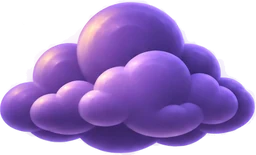
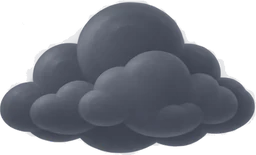
Hayalet Avcıları: fırtına bulutları gri-kara (K03'ün mor bulutları griye boyandı)
Kullanıcı: "önceki gibi gri kara renkli olsun, böyle çok renkli değil".
gorsel_kes.py K03 bulutlarını parlaklığına göre kara arduvaz griye boyar;
bulut-4'ün çizili damlaları silinir (yağmur kodla canlı çizilecek, YAG1).

Claude-Session: https://claude.ai/code/session_01JEr5mLKiYLf7SjTYh6sMfB

diff --git a/hayalet-avcilari/www/gorsel/liste.js b/hayalet-avcilari/www/gorsel/liste.js
@@ -1,6 +1,6 @@
 // Üretilen dosya: araclar/gorsel_kes.py. Elle düzenleme.
 // ChatGPT paftalarından kesilen görseller: anahtar → [genişlik, yükseklik] (px)
-const GORSEL_LISTESI = { "an-atici-saldiri-1": [ 192, 145 ], "an-atici-saldiri-2": [ 192, 145 ], "an-atici-saldiri-3": [ 192, 145 ], "an-atici-saldiri-4": [ 192, 145 ], "an-atici-saldiri-5": [ 192, 145 ], "an-atici-saldiri-6": [ 192, 145 ], "an-boss-bekle-1": [ 179, 256 ], "an-boss-bekle-2": [ 179, 256 ], "an-boss-bekle-3": [ 179, 256 ], "an-boss-kukre-1": [ 256, 231 ], "an-boss-kukre-2": [ 256, 231 ], "an-boss-kukre-3": [ 256, 231 ], "an-boss-yenilgi-1": [ 217, 256 ], "an-boss-yenilgi-2": [ 217, 256 ], "an-boss-yenilgi-3": [ 217, 256 ], "an-boss-yenilgi-4": [ 217, 256 ], "an-boss-yenilgi-5": [ 217, 256 ], "an-boss-yenilgi-6": [ 217, 256 ], "an-buz-1": [ 254, 256 ], "an-buz-2": [ 254, 256 ], "an-buz-3": [ 254, 256 ], "an-carpilma-1": [ 192, 171 ], "an-carpilma-2": [ 192, 171 ], "an-carpilma-3": [ 192, 171 ], "an-carpilma-4": [ 192, 171 ], "an-carpilma-5": [ 192, 171 ], "an-carpilma-6": [ 192, 171 ], "an-elmas-1": [ 79, 96 ], "an-elmas-2": [ 79, 96 ], "an-elmas-3": [ 79, 96 ], "an-hayalet-puf-1": [ 143, 192 ], "an-hayalet-puf-2": [ 143, 192 ], "an-hayalet-puf-3": [ 143, 192 ], "an-hayalet-puf-4": [ 143, 192 ], "an-hayalet-puf-5": [ 143, 192 ], "an-hayalet-puf-6": [ 143, 192 ], "an-hayalet-suzul-1": [ 131, 160 ], "an-hayalet-suzul-2": [ 131, 160 ], "an-hayalet-suzul-3": [ 131, 160 ], "an-hayalet-suzul-4": [ 131, 160 ], "an-hayalet-suzul-5": [ 131, 160 ], "an-hayalet-suzul-6": [ 131, 160 ], "an-kalp-topla-1": [ 160, 141 ], "an-kalp-topla-2": [ 160, 141 ], "an-kalp-topla-3": [ 160, 141 ], "an-kasirga-1": [ 192, 178 ], "an-kasirga-2": [ 192, 178 ], "an-kasirga-3": [ 192, 178 ], "an-kedi-1": [ 160, 121 ], "an-kedi-2": [ 160, 121 ], "an-kedi-3": [ 160, 121 ], "an-kopek-1": [ 160, 113 ], "an-kopek-2": [ 160, 113 ], "an-kopek-3": [ 160, 113 ], "an-kus-1": [ 128, 97 ], "an-kus-2": [ 128, 97 ], "an-kus-3": [ 128, 97 ], "an-para-1": [ 92, 96 ], "an-para-2": [ 92, 96 ], "an-para-3": [ 92, 96 ], "an-para-4": [ 92, 96 ], "an-para-5": [ 92, 96 ], "an-para-6": [ 92, 96 ], "an-patlama-1": [ 256, 238 ], "an-patlama-2": [ 256, 238 ], "an-patlama-3": [ 256, 238 ], "an-timsah-1": [ 192, 127 ], "an-timsah-2": [ 192, 127 ], "an-timsah-3": [ 192, 127 ], "an-timsah-4": [ 192, 127 ], "an-timsah-5": [ 192, 127 ], "an-timsah-6": [ 192, 127 ], "an-vurus-1": [ 128, 126 ], "an-vurus-2": [ 128, 126 ], "an-vurus-3": [ 128, 126 ], "an-yarasa-1": [ 128, 66 ], "an-yarasa-2": [ 128, 66 ], "an-yarasa-3": [ 128, 66 ], "an-yildiz-topla-1": [ 160, 138 ], "an-yildiz-topla-2": [ 160, 138 ], "an-yildiz-topla-3": [ 160, 138 ], "an-zumrut-1": [ 76, 96 ], "an-zumrut-2": [ 76, 96 ], "an-zumrut-3": [ 76, 96 ], "boss-AF": [ 214, 256 ], "boss-AO": [ 203, 256 ], "boss-AR": [ 207, 256 ], "boss-BD": [ 193, 256 ], "boss-BR": [ 238, 256 ], "boss-CA": [ 218, 256 ], "boss-CD": [ 205, 256 ], "boss-CI": [ 213, 256 ], "boss-CN": [ 250, 256 ], "boss-CO": [ 234, 256 ], "boss-DE": [ 209, 256 ], "boss-DZ": [ 256, 251 ], "boss-EG": [ 188, 256 ], "boss-ES": [ 235, 256 ], "boss-ET": [ 231, 256 ], "boss-FR": [ 237, 256 ], "boss-GB": [ 227, 256 ], "boss-GH": [ 242, 256 ], "boss-ID": [ 181, 256 ], "boss-IN": [ 196, 256 ], "boss-IQ": [ 212, 256 ], "boss-IR": [ 199, 256 ], "boss-IT": [ 238, 256 ], "boss-JP": [ 240, 256 ], "boss-KE": [ 213, 256 ], "boss-KR": [ 181, 256 ], "boss-MA": [ 231, 256 ], "boss-MG": [ 204, 256 ], "boss-MM": [ 192, 256 ], "boss-MX": [ 244, 256 ], "boss-MY": [ 175, 256 ], "boss-MZ": [ 215, 256 ], "boss-NG": [ 203, 256 ], "boss-PE": [ 194, 256 ], "boss-PH": [ 195, 256 ], "boss-PK": [ 213, 256 ], "boss-PL": [ 214, 256 ], "boss-PS": [ 218, 256 ], "boss-RU": [ 170, 256 ], "boss-SA": [ 191, 256 ], "boss-SD": [ 200, 256 ], "boss-TH": [ 196, 256 ], "boss-TR": [ 232, 256 ], "boss-TZ": [ 201, 256 ], "boss-UA": [ 243, 256 ], "boss-UG": [ 223, 256 ], "boss-US": [ 220, 256 ], "boss-UZ": [ 193, 256 ], "boss-VN": [ 183, 256 ], "boss-YE": [ 202, 256 ], "boss-ZA": [ 195, 256 ], "bulut": [ 256, 160 ], "bulut-2": [ 256, 155 ], "bulut-3": [ 256, 250 ], "bulut-4": [ 256, 197 ], "cali": [ 192, 167 ], "dere-sus-1": [ 154, 160 ], "dere-sus-2": [ 160, 123 ], "dere-sus-3": [ 160, 120 ], "dere-sus-4": [ 160, 129 ], "dere-sus-5": [ 160, 108 ], "dere-sus-6": [ 160, 137 ], "elmas": [ 79, 96 ], "esya-bomba": [ 108, 128 ], "esya-dondurma": [ 122, 128 ], "esya-gorunmez": [ 95, 128 ], "esya-ilkyrd": [ 127, 128 ], "esya-kasirga": [ 117, 128 ], "esya-roket": [ 126, 128 ], "esya-simsek": [ 98, 128 ], "gel-atis": [ 128, 114 ], "gel-can": [ 128, 115 ], "gel-hasar": [ 128, 108 ], "gel-hiz": [ 128, 122 ], "gel-menzil": [ 128, 114 ], "gel-miknatis": [ 128, 114 ], "guc": [ 128, 128 ], "guc-beti": [ 160, 158 ], "guc-fanatik": [ 160, 158 ], "guc-gul": [ 160, 158 ], "guc-kent": [ 159, 160 ], "guc-kinkin": [ 158, 160 ], "guc-kornet": [ 158, 160 ], "guc-mark": [ 158, 160 ], "guc-ponko": [ 158, 160 ], "guc-rani": [ 160, 159 ], "guc-sercin": [ 160, 158 ], "guc-silsen": [ 160, 159 ], "guc-veryi": [ 158, 160 ], "hayalet-atici": [ 128, 160 ], "hayalet-boss": [ 178, 256 ], "hayalet-mini": [ 134, 160 ], "hayalet-normal": [ 129, 160 ], "k3-beti-0-1": [ 177, 256 ], "k3-beti-0-2": [ 177, 256 ], "k3-beti-0-3": [ 177, 256 ], "k3-beti-0-4": [ 177, 256 ], "k3-beti-0-5": [ 177, 256 ], "k3-beti-0-6": [ 177, 256 ], "k3-beti-0-7": [ 177, 256 ], "k3-beti-0-8": [ 177, 256 ], "k3-beti-1-1": [ 169, 256 ], "k3-beti-1-2": [ 169, 256 ], "k3-beti-1-3": [ 169, 256 ], "k3-beti-1-4": [ 169, 256 ], "k3-beti-1-5": [ 169, 256 ], "k3-beti-1-6": [ 169, 256 ], "k3-beti-1-7": [ 169, 256 ], "k3-beti-1-8": [ 169, 256 ], "k3-beti-2-1": [ 176, 256 ], "k3-beti-2-2": [ 176, 256 ], "k3-beti-2-3": [ 176, 256 ], "k3-beti-2-4": [ 176, 256 ], "k3-beti-2-5": [ 176, 256 ], "k3-beti-2-6": [ 176, 256 ], "k3-beti-2-7": [ 176, 256 ], "k3-beti-2-8": [ 176, 256 ], "k3-fanatik-0-1": [ 175, 256 ], "k3-fanatik-0-2": [ 175, 256 ], "k3-fanatik-0-3": [ 175, 256 ], "k3-fanatik-0-4": [ 175, 256 ], "k3-fanatik-0-5": [ 175, 256 ], "k3-fanatik-0-6": [ 175, 256 ], "k3-fanatik-0-7": [ 175, 256 ], "k3-fanatik-0-8": [ 175, 256 ], "k3-fanatik-1-1": [ 178, 256 ], "k3-fanatik-1-2": [ 178, 256 ], "k3-fanatik-1-3": [ 178, 256 ], "k3-fanatik-1-4": [ 178, 256 ], "k3-fanatik-1-5": [ 178, 256 ], "k3-fanatik-1-6": [ 178, 256 ], "k3-fanatik-1-7": [ 178, 256 ], "k3-fanatik-1-8": [ 178, 256 ], "k3-fanatik-2-1": [ 183, 256 ], "k3-fanatik-2-2": [ 183, 256 ], "k3-fanatik-2-3": [ 183, 256 ], "k3-fanatik-2-4": [ 183, 256 ], "k3-fanatik-2-5": [ 183, 256 ], "k3-fanatik-2-6": [ 183, 256 ], "k3-fanatik-2-7": [ 183, 256 ], "k3-fanatik-2-8": [ 183, 256 ], "k3-gul-0-1": [ 167, 256 ], "k3-gul-0-2": [ 167, 256 ], "k3-gul-0-3": [ 167, 256 ], "k3-gul-0-4": [ 167, 256 ], "k3-gul-0-5": [ 167, 256 ], "k3-gul-0-6": [ 167, 256 ], "k3-gul-0-7": [ 167, 256 ], "k3-gul-0-8": [ 167, 256 ], "k3-gul-1-1": [ 171, 256 ], "k3-gul-1-2": [ 171, 256 ], "k3-gul-1-3": [ 171, 256 ], "k3-gul-1-4": [ 171, 256 ], "k3-gul-1-5": [ 171, 256 ], "k3-gul-1-6": [ 171, 256 ], "k3-gul-1-7": [ 171, 256 ], "k3-gul-1-8": [ 171, 256 ], "k3-gul-2-1": [ 180, 256 ], "k3-gul-2-2": [ 180, 256 ], "k3-gul-2-3": [ 180, 256 ], "k3-gul-2-4": [ 180, 256 ], "k3-gul-2-5": [ 180, 256 ], "k3-gul-2-6": [ 180, 256 ], "k3-gul-2-7": [ 180, 256 ], "k3-gul-2-8": [ 180, 256 ], "k3-kent-0-1": [ 174, 256 ], "k3-kent-0-2": [ 174, 256 ], "k3-kent-0-3": [ 174, 256 ], "k3-kent-0-4": [ 174, 256 ], "k3-kent-0-5": [ 174, 256 ], "k3-kent-0-6": [ 174, 256 ], "k3-kent-0-7": [ 174, 256 ], "k3-kent-0-8": [ 174, 256 ], "k3-kent-1-1": [ 177, 256 ], "k3-kent-1-2": [ 177, 256 ], "k3-kent-1-3": [ 177, 256 ], "k3-kent-1-4": [ 177, 256 ], "k3-kent-1-5": [ 177, 256 ], "k3-kent-1-6": [ 177, 256 ], "k3-kent-1-7": [ 177, 256 ], "k3-kent-1-8": [ 177, 256 ], "k3-kent-2-1": [ 178, 256 ], "k3-kent-2-2": [ 178, 256 ], "k3-kent-2-3": [ 178, 256 ], "k3-kent-2-4": [ 178, 256 ], "k3-kent-2-5": [ 178, 256 ], "k3-kent-2-6": [ 178, 256 ], "k3-kent-2-7": [ 178, 256 ], "k3-kent-2-8": [ 178, 256 ], "k3-kinkin-0-1": [ 145, 256 ], "k3-kinkin-0-2": [ 145, 256 ], "k3-kinkin-0-3": [ 145, 256 ], "k3-kinkin-0-4": [ 145, 256 ], "k3-kinkin-0-5": [ 145, 256 ], "k3-kinkin-0-6": [ 145, 256 ], "k3-kinkin-0-7": [ 145, 256 ], "k3-kinkin-0-8": [ 145, 256 ], "k3-kinkin-1-1": [ 141, 256 ], "k3-kinkin-1-2": [ 141, 256 ], "k3-kinkin-1-3": [ 141, 256 ], "k3-kinkin-1-4": [ 141, 256 ], "k3-kinkin-1-5": [ 141, 256 ], "k3-kinkin-1-6": [ 141, 256 ], "k3-kinkin-1-7": [ 141, 256 ], "k3-kinkin-1-8": [ 141, 256 ], "k3-kinkin-2-1": [ 159, 256 ], "k3-kinkin-2-2": [ 159, 256 ], "k3-kinkin-2-3": [ 159, 256 ], "k3-kinkin-2-4": [ 159, 256 ], "k3-kinkin-2-5": [ 159, 256 ], "k3-kinkin-2-6": [ 159, 256 ], "k3-kinkin-2-7": [ 159, 256 ], "k3-kinkin-2-8": [ 159, 256 ], "k3-kornet-0-1": [ 188, 256 ], "k3-kornet-0-2": [ 188, 256 ], "k3-kornet-0-3": [ 188, 256 ], "k3-kornet-0-4": [ 188, 256 ], "k3-kornet-0-5": [ 188, 256 ], "k3-kornet-0-6": [ 188, 256 ], "k3-kornet-0-7": [ 188, 256 ], "k3-kornet-0-8": [ 188, 256 ], "k3-kornet-1-1": [ 189, 256 ], "k3-kornet-1-2": [ 189, 256 ], "k3-kornet-1-3": [ 189, 256 ], "k3-kornet-1-4": [ 189, 256 ], "k3-kornet-1-5": [ 189, 256 ], "k3-kornet-1-6": [ 189, 256 ], "k3-kornet-1-7": [ 189, 256 ], "k3-kornet-1-8": [ 189, 256 ], "k3-kornet-2-1": [ 182, 256 ], "k3-kornet-2-2": [ 182, 256 ], "k3-kornet-2-3": [ 182, 256 ], "k3-kornet-2-4": [ 182, 256 ], "k3-kornet-2-5": [ 182, 256 ], "k3-kornet-2-6": [ 182, 256 ], "k3-kornet-2-7": [ 182, 256 ], "k3-kornet-2-8": [ 182, 256 ], "k3-mark-0-1": [ 165, 256 ], "k3-mark-0-2": [ 165, 256 ], "k3-mark-0-3": [ 165, 256 ], "k3-mark-0-4": [ 165, 256 ], "k3-mark-0-5": [ 165, 256 ], "k3-mark-0-6": [ 165, 256 ], "k3-mark-0-7": [ 165, 256 ], "k3-mark-0-8": [ 165, 256 ], "k3-mark-1-1": [ 166, 256 ], "k3-mark-1-2": [ 166, 256 ], "k3-mark-1-3": [ 166, 256 ], "k3-mark-1-4": [ 166, 256 ], "k3-mark-1-5": [ 166, 256 ], "k3-mark-1-6": [ 166, 256 ], "k3-mark-1-7": [ 166, 256 ], "k3-mark-1-8": [ 166, 256 ], "k3-mark-2-1": [ 170, 256 ], "k3-mark-2-2": [ 170, 256 ], "k3-mark-2-3": [ 170, 256 ], "k3-mark-2-4": [ 170, 256 ], "k3-mark-2-5": [ 170, 256 ], "k3-mark-2-6": [ 170, 256 ], "k3-mark-2-7": [ 170, 256 ], "k3-mark-2-8": [ 170, 256 ], "k3-ponko-0-1": [ 175, 256 ], "k3-ponko-0-2": [ 175, 256 ], "k3-ponko-0-3": [ 175, 256 ], "k3-ponko-0-4": [ 175, 256 ], "k3-ponko-0-5": [ 175, 256 ], "k3-ponko-0-6": [ 175, 256 ], "k3-ponko-0-7": [ 175, 256 ], "k3-ponko-0-8": [ 175, 256 ], "k3-ponko-1-1": [ 173, 256 ], "k3-ponko-1-2": [ 173, 256 ], "k3-ponko-1-3": [ 173, 256 ], "k3-ponko-1-4": [ 173, 256 ], "k3-ponko-1-5": [ 173, 256 ], "k3-ponko-1-6": [ 173, 256 ], "k3-ponko-1-7": [ 173, 256 ], "k3-ponko-1-8": [ 173, 256 ], "k3-ponko-2-1": [ 175, 256 ], "k3-ponko-2-2": [ 175, 256 ], "k3-ponko-2-3": [ 175, 256 ], "k3-ponko-2-4": [ 175, 256 ], "k3-ponko-2-5": [ 175, 256 ], "k3-ponko-2-6": [ 175, 256 ], "k3-ponko-2-7": [ 175, 256 ], "k3-ponko-2-8": [ 175, 256 ], "k3-rani-0-1": [ 180, 256 ], "k3-rani-0-2": [ 180, 256 ], "k3-rani-0-3": [ 180, 256 ], "k3-rani-0-4": [ 180, 256 ], "k3-rani-0-5": [ 180, 256 ], "k3-rani-0-6": [ 180, 256 ], "k3-rani-0-7": [ 180, 256 ], "k3-rani-0-8": [ 180, 256 ], "k3-rani-1-1": [ 180, 256 ], "k3-rani-1-2": [ 180, 256 ], "k3-rani-1-3": [ 180, 256 ], "k3-rani-1-4": [ 180, 256 ], "k3-rani-1-5": [ 180, 256 ], "k3-rani-1-6": [ 180, 256 ], "k3-rani-1-7": [ 180, 256 ], "k3-rani-1-8": [ 180, 256 ], "k3-rani-2-1": [ 182, 256 ], "k3-rani-2-2": [ 182, 256 ], "k3-rani-2-3": [ 182, 256 ], "k3-rani-2-4": [ 182, 256 ], "k3-rani-2-5": [ 182, 256 ], "k3-rani-2-6": [ 182, 256 ], "k3-rani-2-7": [ 182, 256 ], "k3-rani-2-8": [ 182, 256 ], "k3-sercin-0-1": [ 179, 256 ], "k3-sercin-0-2": [ 179, 256 ], "k3-sercin-0-3": [ 179, 256 ], "k3-sercin-0-4": [ 179, 256 ], "k3-sercin-0-5": [ 179, 256 ], "k3-sercin-0-6": [ 179, 256 ], "k3-sercin-0-7": [ 179, 256 ], "k3-sercin-0-8": [ 179, 256 ], "k3-sercin-1-1": [ 158, 256 ], "k3-sercin-1-2": [ 158, 256 ], "k3-sercin-1-3": [ 158, 256 ], "k3-sercin-1-4": [ 158, 256 ], "k3-sercin-1-5": [ 158, 256 ], "k3-sercin-1-6": [ 158, 256 ], "k3-sercin-1-7": [ 158, 256 ], "k3-sercin-1-8": [ 158, 256 ], "k3-silsen-0-1": [ 161, 256 ], "k3-silsen-0-2": [ 161, 256 ], "k3-silsen-0-3": [ 161, 256 ], "k3-silsen-0-4": [ 161, 256 ], "k3-silsen-0-5": [ 161, 256 ], "k3-silsen-0-6": [ 161, 256 ], "k3-silsen-0-7": [ 161, 256 ], "k3-silsen-0-8": [ 161, 256 ], "k3-silsen-1-1": [ 178, 256 ], "k3-silsen-1-2": [ 178, 256 ], "k3-silsen-1-3": [ 178, 256 ], "k3-silsen-1-4": [ 178, 256 ], "k3-silsen-1-5": [ 178, 256 ], "k3-silsen-1-6": [ 178, 256 ], "k3-silsen-1-7": [ 178, 256 ], "k3-silsen-1-8": [ 178, 256 ], "k3-veryi-0-1": [ 147, 256 ], "k3-veryi-0-2": [ 147, 256 ], "k3-veryi-0-3": [ 147, 256 ], "k3-veryi-0-4": [ 147, 256 ], "k3-veryi-0-5": [ 147, 256 ], "k3-veryi-0-6": [ 147, 256 ], "k3-veryi-0-7": [ 147, 256 ], "k3-veryi-0-8": [ 147, 256 ], "k3-veryi-1-1": [ 148, 256 ], "k3-veryi-1-2": [ 148, 256 ], "k3-veryi-1-3": [ 148, 256 ], "k3-veryi-1-4": [ 148, 256 ], "k3-veryi-1-5": [ 148, 256 ], "k3-veryi-1-6": [ 148, 256 ], "k3-veryi-1-7": [ 148, 256 ], "k3-veryi-1-8": [ 148, 256 ], "k3-veryi-2-1": [ 154, 256 ], "k3-veryi-2-2": [ 154, 256 ], "k3-veryi-2-3": [ 154, 256 ], "k3-veryi-2-4": [ 154, 256 ], "k3-veryi-2-5": [ 154, 256 ], "k3-veryi-2-6": [ 154, 256 ], "k3-veryi-2-7": [ 154, 256 ], "k3-veryi-2-8": [ 154, 256 ], "kalp": [ 96, 82 ], "kar-beti-0": [ 159, 256 ], "kar-beti-1": [ 160, 256 ], "kar-beti-2": [ 160, 256 ], "kar-fanatik-0": [ 176, 256 ], "kar-fanatik-1": [ 177, 256 ], "kar-fanatik-2": [ 177, 256 ], "kar-gul-0": [ 159, 256 ], "kar-gul-1": [ 158, 256 ], "kar-gul-2": [ 158, 256 ], "kar-kent-0": [ 191, 256 ], "kar-kent-1": [ 191, 256 ], "kar-kent-2": [ 192, 256 ], "kar-kinkin-0": [ 177, 256 ], "kar-kinkin-1": [ 177, 256 ], "kar-kinkin-2": [ 177, 256 ], "kar-kornet-0": [ 168, 256 ], "kar-kornet-1": [ 169, 256 ], "kar-kornet-2": [ 169, 256 ], "kar-mark-0": [ 178, 256 ], "kar-mark-1": [ 179, 256 ], "kar-mark-2": [ 179, 256 ], "kar-ponko-0": [ 209, 256 ], "kar-ponko-1": [ 208, 256 ], "kar-ponko-2": [ 209, 256 ], "kar-rani-0": [ 176, 256 ], "kar-rani-1": [ 176, 256 ], "kar-rani-2": [ 176, 256 ], "kar-sercin-0": [ 174, 256 ], "kar-sercin-1": [ 243, 256 ], "kar-silsen-0": [ 174, 256 ], "kar-silsen-1": [ 174, 256 ], "kar-veryi-0": [ 178, 256 ], "kar-veryi-1": [ 177, 256 ], "kar-veryi-2": [ 179, 256 ], "kart-beti": [ 320, 305 ], "kart-fanatik": [ 320, 284 ], "kart-gul": [ 310, 320 ], "kart-kent": [ 320, 248 ], "kart-kinkin": [ 320, 278 ], "kart-kornet": [ 292, 320 ], "kart-mark": [ 320, 291 ], "kart-ponko": [ 320, 294 ], "kart-rani": [ 274, 320 ], "kart-sercin": [ 320, 249 ], "kart-silsen": [ 320, 301 ], "kart-veryi": [ 310, 320 ], "menu-arka": [ 768, 1152 ], "para": [ 93, 96 ], "pet-kedi": [ 160, 149 ], "pet-kopek": [ 160, 100 ], "pet-kus": [ 128, 74 ], "s3-baloncuk": [ 192, 144 ], "s3-bazuka": [ 192, 116 ], "s3-fanatik": [ 192, 90 ], "s3-gul": [ 47, 192 ], "s3-kent": [ 192, 81 ], "s3-kinkin": [ 192, 140 ], "s3-kornet": [ 192, 65 ], "s3-lazer": [ 192, 123 ], "s3-mark": [ 192, 122 ], "s3-pompali": [ 192, 121 ], "s3-ponko": [ 192, 116 ], "s3-rani": [ 192, 160 ], "s3-sercin": [ 192, 72 ], "s3-silsen": [ 192, 114 ], "s3-veryi": [ 192, 116 ], "s3-yesil": [ 192, 124 ], "silah-baloncuk": [ 160, 122 ], "silah-bazuka": [ 192, 122 ], "silah-lazer": [ 160, 96 ], "silah-pompali": [ 160, 104 ], "silah-yesil": [ 160, 144 ], "simsek-1": [ 165, 256 ], "simsek-2": [ 156, 256 ], "simsek-3": [ 121, 256 ], "tema1-su": [ 512, 512 ], "tema1-zemin": [ 512, 512 ], "tema2-su": [ 512, 512 ], "tema2-zemin": [ 512, 512 ], "tema3-su": [ 512, 512 ], "tema3-zemin": [ 512, 512 ], "tema4-su": [ 512, 512 ], "tema4-zemin": [ 512, 512 ], "tema5-zemin": [ 512, 512 ], "tema6-su": [ 512, 512 ], "tema6-zemin": [ 512, 512 ], "yarasa": [ 128, 50 ], "yuva-izbe": [ 256, 250 ], "yuva-kovuk": [ 254, 256 ], "yuva-kripta": [ 256, 245 ], "yuva-kuyu": [ 241, 256 ], "yuva-magara": [ 256, 219 ], "yuva-mezarlik": [ 256, 202 ], "zumrut": [ 76, 96 ] };
+const GORSEL_LISTESI = { "an-atici-saldiri-1": [ 192, 145 ], "an-atici-saldiri-2": [ 192, 145 ], "an-atici-saldiri-3": [ 192, 145 ], "an-atici-saldiri-4": [ 192, 145 ], "an-atici-saldiri-5": [ 192, 145 ], "an-atici-saldiri-6": [ 192, 145 ], "an-boss-bekle-1": [ 179, 256 ], "an-boss-bekle-2": [ 179, 256 ], "an-boss-bekle-3": [ 179, 256 ], "an-boss-kukre-1": [ 256, 231 ], "an-boss-kukre-2": [ 256, 231 ], "an-boss-kukre-3": [ 256, 231 ], "an-boss-yenilgi-1": [ 217, 256 ], "an-boss-yenilgi-2": [ 217, 256 ], "an-boss-yenilgi-3": [ 217, 256 ], "an-boss-yenilgi-4": [ 217, 256 ], "an-boss-yenilgi-5": [ 217, 256 ], "an-boss-yenilgi-6": [ 217, 256 ], "an-buz-1": [ 254, 256 ], "an-buz-2": [ 254, 256 ], "an-buz-3": [ 254, 256 ], "an-carpilma-1": [ 192, 171 ], "an-carpilma-2": [ 192, 171 ], "an-carpilma-3": [ 192, 171 ], "an-carpilma-4": [ 192, 171 ], "an-carpilma-5": [ 192, 171 ], "an-carpilma-6": [ 192, 171 ], "an-elmas-1": [ 79, 96 ], "an-elmas-2": [ 79, 96 ], "an-elmas-3": [ 79, 96 ], "an-hayalet-puf-1": [ 143, 192 ], "an-hayalet-puf-2": [ 143, 192 ], "an-hayalet-puf-3": [ 143, 192 ], "an-hayalet-puf-4": [ 143, 192 ], "an-hayalet-puf-5": [ 143, 192 ], "an-hayalet-puf-6": [ 143, 192 ], "an-hayalet-suzul-1": [ 131, 160 ], "an-hayalet-suzul-2": [ 131, 160 ], "an-hayalet-suzul-3": [ 131, 160 ], "an-hayalet-suzul-4": [ 131, 160 ], "an-hayalet-suzul-5": [ 131, 160 ], "an-hayalet-suzul-6": [ 131, 160 ], "an-kalp-topla-1": [ 160, 141 ], "an-kalp-topla-2": [ 160, 141 ], "an-kalp-topla-3": [ 160, 141 ], "an-kasirga-1": [ 192, 178 ], "an-kasirga-2": [ 192, 178 ], "an-kasirga-3": [ 192, 178 ], "an-kedi-1": [ 160, 121 ], "an-kedi-2": [ 160, 121 ], "an-kedi-3": [ 160, 121 ], "an-kopek-1": [ 160, 113 ], "an-kopek-2": [ 160, 113 ], "an-kopek-3": [ 160, 113 ], "an-kus-1": [ 128, 97 ], "an-kus-2": [ 128, 97 ], "an-kus-3": [ 128, 97 ], "an-para-1": [ 92, 96 ], "an-para-2": [ 92, 96 ], "an-para-3": [ 92, 96 ], "an-para-4": [ 92, 96 ], "an-para-5": [ 92, 96 ], "an-para-6": [ 92, 96 ], "an-patlama-1": [ 256, 238 ], "an-patlama-2": [ 256, 238 ], "an-patlama-3": [ 256, 238 ], "an-timsah-1": [ 192, 127 ], "an-timsah-2": [ 192, 127 ], "an-timsah-3": [ 192, 127 ], "an-timsah-4": [ 192, 127 ], "an-timsah-5": [ 192, 127 ], "an-timsah-6": [ 192, 127 ], "an-vurus-1": [ 128, 126 ], "an-vurus-2": [ 128, 126 ], "an-vurus-3": [ 128, 126 ], "an-yarasa-1": [ 128, 66 ], "an-yarasa-2": [ 128, 66 ], "an-yarasa-3": [ 128, 66 ], "an-yildiz-topla-1": [ 160, 138 ], "an-yildiz-topla-2": [ 160, 138 ], "an-yildiz-topla-3": [ 160, 138 ], "an-zumrut-1": [ 76, 96 ], "an-zumrut-2": [ 76, 96 ], "an-zumrut-3": [ 76, 96 ], "boss-AF": [ 214, 256 ], "boss-AO": [ 203, 256 ], "boss-AR": [ 207, 256 ], "boss-BD": [ 193, 256 ], "boss-BR": [ 238, 256 ], "boss-CA": [ 218, 256 ], "boss-CD": [ 205, 256 ], "boss-CI": [ 213, 256 ], "boss-CN": [ 250, 256 ], "boss-CO": [ 234, 256 ], "boss-DE": [ 209, 256 ], "boss-DZ": [ 256, 251 ], "boss-EG": [ 188, 256 ], "boss-ES": [ 235, 256 ], "boss-ET": [ 231, 256 ], "boss-FR": [ 237, 256 ], "boss-GB": [ 227, 256 ], "boss-GH": [ 242, 256 ], "boss-ID": [ 181, 256 ], "boss-IN": [ 196, 256 ], "boss-IQ": [ 212, 256 ], "boss-IR": [ 199, 256 ], "boss-IT": [ 238, 256 ], "boss-JP": [ 240, 256 ], "boss-KE": [ 213, 256 ], "boss-KR": [ 181, 256 ], "boss-MA": [ 231, 256 ], "boss-MG": [ 204, 256 ], "boss-MM": [ 192, 256 ], "boss-MX": [ 244, 256 ], "boss-MY": [ 175, 256 ], "boss-MZ": [ 215, 256 ], "boss-NG": [ 203, 256 ], "boss-PE": [ 194, 256 ], "boss-PH": [ 195, 256 ], "boss-PK": [ 213, 256 ], "boss-PL": [ 214, 256 ], "boss-PS": [ 218, 256 ], "boss-RU": [ 170, 256 ], "boss-SA": [ 191, 256 ], "boss-SD": [ 200, 256 ], "boss-TH": [ 196, 256 ], "boss-TR": [ 232, 256 ], "boss-TZ": [ 201, 256 ], "boss-UA": [ 243, 256 ], "boss-UG": [ 223, 256 ], "boss-US": [ 220, 256 ], "boss-UZ": [ 193, 256 ], "boss-VN": [ 183, 256 ], "boss-YE": [ 202, 256 ], "boss-ZA": [ 195, 256 ], "bulut": [ 256, 160 ], "bulut-2": [ 256, 155 ], "bulut-3": [ 256, 250 ], "bulut-4": [ 256, 133 ], "cali": [ 192, 167 ], "dere-sus-1": [ 154, 160 ], "dere-sus-2": [ 160, 123 ], "dere-sus-3": [ 160, 120 ], "dere-sus-4": [ 160, 129 ], "dere-sus-5": [ 160, 108 ], "dere-sus-6": [ 160, 137 ], "elmas": [ 79, 96 ], "esya-bomba": [ 108, 128 ], "esya-dondurma": [ 122, 128 ], "esya-gorunmez": [ 95, 128 ], "esya-ilkyrd": [ 127, 128 ], "esya-kasirga": [ 117, 128 ], "esya-roket": [ 126, 128 ], "esya-simsek": [ 98, 128 ], "gel-atis": [ 128, 114 ], "gel-can": [ 128, 115 ], "gel-hasar": [ 128, 108 ], "gel-hiz": [ 128, 122 ], "gel-menzil": [ 128, 114 ], "gel-miknatis": [ 128, 114 ], "guc": [ 128, 128 ], "guc-beti": [ 160, 158 ], "guc-fanatik": [ 160, 158 ], "guc-gul": [ 160, 158 ], "guc-kent": [ 159, 160 ], "guc-kinkin": [ 158, 160 ], "guc-kornet": [ 158, 160 ], "guc-mark": [ 158, 160 ], "guc-ponko": [ 158, 160 ], "guc-rani": [ 160, 159 ], "guc-sercin": [ 160, 158 ], "guc-silsen": [ 160, 159 ], "guc-veryi": [ 158, 160 ], "hayalet-atici": [ 128, 160 ], "hayalet-boss": [ 178, 256 ], "hayalet-mini": [ 134, 160 ], "hayalet-normal": [ 129, 160 ], "k3-beti-0-1": [ 177, 256 ], "k3-beti-0-2": [ 177, 256 ], "k3-beti-0-3": [ 177, 256 ], "k3-beti-0-4": [ 177, 256 ], "k3-beti-0-5": [ 177, 256 ], "k3-beti-0-6": [ 177, 256 ], "k3-beti-0-7": [ 177, 256 ], "k3-beti-0-8": [ 177, 256 ], "k3-beti-1-1": [ 169, 256 ], "k3-beti-1-2": [ 169, 256 ], "k3-beti-1-3": [ 169, 256 ], "k3-beti-1-4": [ 169, 256 ], "k3-beti-1-5": [ 169, 256 ], "k3-beti-1-6": [ 169, 256 ], "k3-beti-1-7": [ 169, 256 ], "k3-beti-1-8": [ 169, 256 ], "k3-beti-2-1": [ 176, 256 ], "k3-beti-2-2": [ 176, 256 ], "k3-beti-2-3": [ 176, 256 ], "k3-beti-2-4": [ 176, 256 ], "k3-beti-2-5": [ 176, 256 ], "k3-beti-2-6": [ 176, 256 ], "k3-beti-2-7": [ 176, 256 ], "k3-beti-2-8": [ 176, 256 ], "k3-fanatik-0-1": [ 175, 256 ], "k3-fanatik-0-2": [ 175, 256 ], "k3-fanatik-0-3": [ 175, 256 ], "k3-fanatik-0-4": [ 175, 256 ], "k3-fanatik-0-5": [ 175, 256 ], "k3-fanatik-0-6": [ 175, 256 ], "k3-fanatik-0-7": [ 175, 256 ], "k3-fanatik-0-8": [ 175, 256 ], "k3-fanatik-1-1": [ 178, 256 ], "k3-fanatik-1-2": [ 178, 256 ], "k3-fanatik-1-3": [ 178, 256 ], "k3-fanatik-1-4": [ 178, 256 ], "k3-fanatik-1-5": [ 178, 256 ], "k3-fanatik-1-6": [ 178, 256 ], "k3-fanatik-1-7": [ 178, 256 ], "k3-fanatik-1-8": [ 178, 256 ], "k3-fanatik-2-1": [ 183, 256 ], "k3-fanatik-2-2": [ 183, 256 ], "k3-fanatik-2-3": [ 183, 256 ], "k3-fanatik-2-4": [ 183, 256 ], "k3-fanatik-2-5": [ 183, 256 ], "k3-fanatik-2-6": [ 183, 256 ], "k3-fanatik-2-7": [ 183, 256 ], "k3-fanatik-2-8": [ 183, 256 ], "k3-gul-0-1": [ 167, 256 ], "k3-gul-0-2": [ 167, 256 ], "k3-gul-0-3": [ 167, 256 ], "k3-gul-0-4": [ 167, 256 ], "k3-gul-0-5": [ 167, 256 ], "k3-gul-0-6": [ 167, 256 ], "k3-gul-0-7": [ 167, 256 ], "k3-gul-0-8": [ 167, 256 ], "k3-gul-1-1": [ 171, 256 ], "k3-gul-1-2": [ 171, 256 ], "k3-gul-1-3": [ 171, 256 ], "k3-gul-1-4": [ 171, 256 ], "k3-gul-1-5": [ 171, 256 ], "k3-gul-1-6": [ 171, 256 ], "k3-gul-1-7": [ 171, 256 ], "k3-gul-1-8": [ 171, 256 ], "k3-gul-2-1": [ 180, 256 ], "k3-gul-2-2": [ 180, 256 ], "k3-gul-2-3": [ 180, 256 ], "k3-gul-2-4": [ 180, 256 ], "k3-gul-2-5": [ 180, 256 ], "k3-gul-2-6": [ 180, 256 ], "k3-gul-2-7": [ 180, 256 ], "k3-gul-2-8": [ 180, 256 ], "k3-kent-0-1": [ 174, 256 ], "k3-kent-0-2": [ 174, 256 ], "k3-kent-0-3": [ 174, 256 ], "k3-kent-0-4": [ 174, 256 ], "k3-kent-0-5": [ 174, 256 ], "k3-kent-0-6": [ 174, 256 ], "k3-kent-0-7": [ 174, 256 ], "k3-kent-0-8": [ 174, 256 ], "k3-kent-1-1": [ 177, 256 ], "k3-kent-1-2": [ 177, 256 ], "k3-kent-1-3": [ 177, 256 ], "k3-kent-1-4": [ 177, 256 ], "k3-kent-1-5": [ 177, 256 ], "k3-kent-1-6": [ 177, 256 ], "k3-kent-1-7": [ 177, 256 ], "k3-kent-1-8": [ 177, 256 ], "k3-kent-2-1": [ 178, 256 ], "k3-kent-2-2": [ 178, 256 ], "k3-kent-2-3": [ 178, 256 ], "k3-kent-2-4": [ 178, 256 ], "k3-kent-2-5": [ 178, 256 ], "k3-kent-2-6": [ 178, 256 ], "k3-kent-2-7": [ 178, 256 ], "k3-kent-2-8": [ 178, 256 ], "k3-kinkin-0-1": [ 145, 256 ], "k3-kinkin-0-2": [ 145, 256 ], "k3-kinkin-0-3": [ 145, 256 ], "k3-kinkin-0-4": [ 145, 256 ], "k3-kinkin-0-5": [ 145, 256 ], "k3-kinkin-0-6": [ 145, 256 ], "k3-kinkin-0-7": [ 145, 256 ], "k3-kinkin-0-8": [ 145, 256 ], "k3-kinkin-1-1": [ 141, 256 ], "k3-kinkin-1-2": [ 141, 256 ], "k3-kinkin-1-3": [ 141, 256 ], "k3-kinkin-1-4": [ 141, 256 ], "k3-kinkin-1-5": [ 141, 256 ], "k3-kinkin-1-6": [ 141, 256 ], "k3-kinkin-1-7": [ 141, 256 ], "k3-kinkin-1-8": [ 141, 256 ], "k3-kinkin-2-1": [ 159, 256 ], "k3-kinkin-2-2": [ 159, 256 ], "k3-kinkin-2-3": [ 159, 256 ], "k3-kinkin-2-4": [ 159, 256 ], "k3-kinkin-2-5": [ 159, 256 ], "k3-kinkin-2-6": [ 159, 256 ], "k3-kinkin-2-7": [ 159, 256 ], "k3-kinkin-2-8": [ 159, 256 ], "k3-kornet-0-1": [ 188, 256 ], "k3-kornet-0-2": [ 188, 256 ], "k3-kornet-0-3": [ 188, 256 ], "k3-kornet-0-4": [ 188, 256 ], "k3-kornet-0-5": [ 188, 256 ], "k3-kornet-0-6": [ 188, 256 ], "k3-kornet-0-7": [ 188, 256 ], "k3-kornet-0-8": [ 188, 256 ], "k3-kornet-1-1": [ 189, 256 ], "k3-kornet-1-2": [ 189, 256 ], "k3-kornet-1-3": [ 189, 256 ], "k3-kornet-1-4": [ 189, 256 ], "k3-kornet-1-5": [ 189, 256 ], "k3-kornet-1-6": [ 189, 256 ], "k3-kornet-1-7": [ 189, 256 ], "k3-kornet-1-8": [ 189, 256 ], "k3-kornet-2-1": [ 182, 256 ], "k3-kornet-2-2": [ 182, 256 ], "k3-kornet-2-3": [ 182, 256 ], "k3-kornet-2-4": [ 182, 256 ], "k3-kornet-2-5": [ 182, 256 ], "k3-kornet-2-6": [ 182, 256 ], "k3-kornet-2-7": [ 182, 256 ], "k3-kornet-2-8": [ 182, 256 ], "k3-mark-0-1": [ 165, 256 ], "k3-mark-0-2": [ 165, 256 ], "k3-mark-0-3": [ 165, 256 ], "k3-mark-0-4": [ 165, 256 ], "k3-mark-0-5": [ 165, 256 ], "k3-mark-0-6": [ 165, 256 ], "k3-mark-0-7": [ 165, 256 ], "k3-mark-0-8": [ 165, 256 ], "k3-mark-1-1": [ 166, 256 ], "k3-mark-1-2": [ 166, 256 ], "k3-mark-1-3": [ 166, 256 ], "k3-mark-1-4": [ 166, 256 ], "k3-mark-1-5": [ 166, 256 ], "k3-mark-1-6": [ 166, 256 ], "k3-mark-1-7": [ 166, 256 ], "k3-mark-1-8": [ 166, 256 ], "k3-mark-2-1": [ 170, 256 ], "k3-mark-2-2": [ 170, 256 ], "k3-mark-2-3": [ 170, 256 ], "k3-mark-2-4": [ 170, 256 ], "k3-mark-2-5": [ 170, 256 ], "k3-mark-2-6": [ 170, 256 ], "k3-mark-2-7": [ 170, 256 ], "k3-mark-2-8": [ 170, 256 ], "k3-ponko-0-1": [ 175, 256 ], "k3-ponko-0-2": [ 175, 256 ], "k3-ponko-0-3": [ 175, 256 ], "k3-ponko-0-4": [ 175, 256 ], "k3-ponko-0-5": [ 175, 256 ], "k3-ponko-0-6": [ 175, 256 ], "k3-ponko-0-7": [ 175, 256 ], "k3-ponko-0-8": [ 175, 256 ], "k3-ponko-1-1": [ 173, 256 ], "k3-ponko-1-2": [ 173, 256 ], "k3-ponko-1-3": [ 173, 256 ], "k3-ponko-1-4": [ 173, 256 ], "k3-ponko-1-5": [ 173, 256 ], "k3-ponko-1-6": [ 173, 256 ], "k3-ponko-1-7": [ 173, 256 ], "k3-ponko-1-8": [ 173, 256 ], "k3-ponko-2-1": [ 175, 256 ], "k3-ponko-2-2": [ 175, 256 ], "k3-ponko-2-3": [ 175, 256 ], "k3-ponko-2-4": [ 175, 256 ], "k3-ponko-2-5": [ 175, 256 ], "k3-ponko-2-6": [ 175, 256 ], "k3-ponko-2-7": [ 175, 256 ], "k3-ponko-2-8": [ 175, 256 ], "k3-rani-0-1": [ 180, 256 ], "k3-rani-0-2": [ 180, 256 ], "k3-rani-0-3": [ 180, 256 ], "k3-rani-0-4": [ 180, 256 ], "k3-rani-0-5": [ 180, 256 ], "k3-rani-0-6": [ 180, 256 ], "k3-rani-0-7": [ 180, 256 ], "k3-rani-0-8": [ 180, 256 ], "k3-rani-1-1": [ 180, 256 ], "k3-rani-1-2": [ 180, 256 ], "k3-rani-1-3": [ 180, 256 ], "k3-rani-1-4": [ 180, 256 ], "k3-rani-1-5": [ 180, 256 ], "k3-rani-1-6": [ 180, 256 ], "k3-rani-1-7": [ 180, 256 ], "k3-rani-1-8": [ 180, 256 ], "k3-rani-2-1": [ 182, 256 ], "k3-rani-2-2": [ 182, 256 ], "k3-rani-2-3": [ 182, 256 ], "k3-rani-2-4": [ 182, 256 ], "k3-rani-2-5": [ 182, 256 ], "k3-rani-2-6": [ 182, 256 ], "k3-rani-2-7": [ 182, 256 ], "k3-rani-2-8": [ 182, 256 ], "k3-sercin-0-1": [ 179, 256 ], "k3-sercin-0-2": [ 179, 256 ], "k3-sercin-0-3": [ 179, 256 ], "k3-sercin-0-4": [ 179, 256 ], "k3-sercin-0-5": [ 179, 256 ], "k3-sercin-0-6": [ 179, 256 ], "k3-sercin-0-7": [ 179, 256 ], "k3-sercin-0-8": [ 179, 256 ], "k3-sercin-1-1": [ 158, 256 ], "k3-sercin-1-2": [ 158, 256 ], "k3-sercin-1-3": [ 158, 256 ], "k3-sercin-1-4": [ 158, 256 ], "k3-sercin-1-5": [ 158, 256 ], "k3-sercin-1-6": [ 158, 256 ], "k3-sercin-1-7": [ 158, 256 ], "k3-sercin-1-8": [ 158, 256 ], "k3-silsen-0-1": [ 161, 256 ], "k3-silsen-0-2": [ 161, 256 ], "k3-silsen-0-3": [ 161, 256 ], "k3-silsen-0-4": [ 161, 256 ], "k3-silsen-0-5": [ 161, 256 ], "k3-silsen-0-6": [ 161, 256 ], "k3-silsen-0-7": [ 161, 256 ], "k3-silsen-0-8": [ 161, 256 ], "k3-silsen-1-1": [ 178, 256 ], "k3-silsen-1-2": [ 178, 256 ], "k3-silsen-1-3": [ 178, 256 ], "k3-silsen-1-4": [ 178, 256 ], "k3-silsen-1-5": [ 178, 256 ], "k3-silsen-1-6": [ 178, 256 ], "k3-silsen-1-7": [ 178, 256 ], "k3-silsen-1-8": [ 178, 256 ], "k3-veryi-0-1": [ 147, 256 ], "k3-veryi-0-2": [ 147, 256 ], "k3-veryi-0-3": [ 147, 256 ], "k3-veryi-0-4": [ 147, 256 ], "k3-veryi-0-5": [ 147, 256 ], "k3-veryi-0-6": [ 147, 256 ], "k3-veryi-0-7": [ 147, 256 ], "k3-veryi-0-8": [ 147, 256 ], "k3-veryi-1-1": [ 148, 256 ], "k3-veryi-1-2": [ 148, 256 ], "k3-veryi-1-3": [ 148, 256 ], "k3-veryi-1-4": [ 148, 256 ], "k3-veryi-1-5": [ 148, 256 ], "k3-veryi-1-6": [ 148, 256 ], "k3-veryi-1-7": [ 148, 256 ], "k3-veryi-1-8": [ 148, 256 ], "k3-veryi-2-1": [ 154, 256 ], "k3-veryi-2-2": [ 154, 256 ], "k3-veryi-2-3": [ 154, 256 ], "k3-veryi-2-4": [ 154, 256 ], "k3-veryi-2-5": [ 154, 256 ], "k3-veryi-2-6": [ 154, 256 ], "k3-veryi-2-7": [ 154, 256 ], "k3-veryi-2-8": [ 154, 256 ], "kalp": [ 96, 82 ], "kar-beti-0": [ 159, 256 ], "kar-beti-1": [ 160, 256 ], "kar-beti-2": [ 160, 256 ], "kar-fanatik-0": [ 176, 256 ], "kar-fanatik-1": [ 177, 256 ], "kar-fanatik-2": [ 177, 256 ], "kar-gul-0": [ 159, 256 ], "kar-gul-1": [ 158, 256 ], "kar-gul-2": [ 158, 256 ], "kar-kent-0": [ 191, 256 ], "kar-kent-1": [ 191, 256 ], "kar-kent-2": [ 192, 256 ], "kar-kinkin-0": [ 177, 256 ], "kar-kinkin-1": [ 177, 256 ], "kar-kinkin-2": [ 177, 256 ], "kar-kornet-0": [ 168, 256 ], "kar-kornet-1": [ 169, 256 ], "kar-kornet-2": [ 169, 256 ], "kar-mark-0": [ 178, 256 ], "kar-mark-1": [ 179, 256 ], "kar-mark-2": [ 179, 256 ], "kar-ponko-0": [ 209, 256 ], "kar-ponko-1": [ 208, 256 ], "kar-ponko-2": [ 209, 256 ], "kar-rani-0": [ 176, 256 ], "kar-rani-1": [ 176, 256 ], "kar-rani-2": [ 176, 256 ], "kar-sercin-0": [ 174, 256 ], "kar-sercin-1": [ 243, 256 ], "kar-silsen-0": [ 174, 256 ], "kar-silsen-1": [ 174, 256 ], "kar-veryi-0": [ 178, 256 ], "kar-veryi-1": [ 177, 256 ], "kar-veryi-2": [ 179, 256 ], "kart-beti": [ 320, 305 ], "kart-fanatik": [ 320, 284 ], "kart-gul": [ 310, 320 ], "kart-kent": [ 320, 248 ], "kart-kinkin": [ 320, 278 ], "kart-kornet": [ 292, 320 ], "kart-mark": [ 320, 291 ], "kart-ponko": [ 320, 294 ], "kart-rani": [ 274, 320 ], "kart-sercin": [ 320, 249 ], "kart-silsen": [ 320, 301 ], "kart-veryi": [ 310, 320 ], "menu-arka": [ 768, 1152 ], "para": [ 93, 96 ], "pet-kedi": [ 160, 149 ], "pet-kopek": [ 160, 100 ], "pet-kus": [ 128, 74 ], "s3-baloncuk": [ 192, 144 ], "s3-bazuka": [ 192, 116 ], "s3-fanatik": [ 192, 90 ], "s3-gul": [ 47, 192 ], "s3-kent": [ 192, 81 ], "s3-kinkin": [ 192, 140 ], "s3-kornet": [ 192, 65 ], "s3-lazer": [ 192, 123 ], "s3-mark": [ 192, 122 ], "s3-pompali": [ 192, 121 ], "s3-ponko": [ 192, 116 ], "s3-rani": [ 192, 160 ], "s3-sercin": [ 192, 72 ], "s3-silsen": [ 192, 114 ], "s3-veryi": [ 192, 116 ], "s3-yesil": [ 192, 124 ], "silah-baloncuk": [ 160, 122 ], "silah-bazuka": [ 192, 122 ], "silah-lazer": [ 160, 96 ], "silah-pompali": [ 160, 104 ], "silah-yesil": [ 160, 144 ], "simsek-1": [ 165, 256 ], "simsek-2": [ 156, 256 ], "simsek-3": [ 121, 256 ], "tema1-su": [ 512, 512 ], "tema1-zemin": [ 512, 512 ], "tema2-su": [ 512, 512 ], "tema2-zemin": [ 512, 512 ], "tema3-su": [ 512, 512 ], "tema3-zemin": [ 512, 512 ], "tema4-su": [ 512, 512 ], "tema4-zemin": [ 512, 512 ], "tema5-zemin": [ 512, 512 ], "tema6-su": [ 512, 512 ], "tema6-zemin": [ 512, 512 ], "yarasa": [ 128, 50 ], "yuva-izbe": [ 256, 250 ], "yuva-kovuk": [ 254, 256 ], "yuva-kripta": [ 256, 245 ], "yuva-kuyu": [ 241, 256 ], "yuva-magara": [ 256, 219 ], "yuva-mezarlik": [ 256, 202 ], "zumrut": [ 76, 96 ] };
 // Animasyonların gövde kutusu (ilk kare, birleşik kare kutusuna oranla [x, y, w, h])
 const ANIM_GOVDE = {"atici-saldiri": [0.1082, 0.0, 0.6366, 0.9932], "boss-bekle": [0.0291, 0.0534, 0.9455, 0.9237], "boss-kukre": [0.2151, 0.0516, 0.5765, 0.9189], "boss-yenilgi": [0.035, 0.1416, 0.965, 0.8425], "buz": [0.267, 0.3135, 0.4877, 0.4324], "carpilma": [0.2051, 0.2158, 0.6368, 0.6379], "elmas": [0.0, 0.0, 0.9961, 1.0], "hayalet-puf": [0.0644, 0.1008, 0.878, 0.806], "hayalet-suzul": [0.042, 0.0, 0.9084, 1.0], "kalp-topla": [0.0342, 0.1161, 0.9474, 0.7619], "kasirga": [0.0781, 0.0405, 0.9094, 0.9358], "kedi": [0.0, 0.0356, 0.9439, 0.9644], "kopek": [0.0818, 0.0337, 0.9077, 0.9139], "kus": [0.0338, 0.0, 0.9662, 0.8815], "para": [0.0376, 0.012, 0.9624, 0.9608], "patlama": [0.2227, 0.2045, 0.6056, 0.586], "timsah": [0.0348, 0.4456, 0.9466, 0.4912], "vurus": [0.291, 0.281, 0.4527, 0.4608], "yarasa": [0.0425, 0.0, 0.9269, 0.895], "yildiz-topla": [0.0, 0.1203, 1.0, 0.7736], "zumrut": [0.0, 0.0, 1.0, 1.0]};
 // Yön paftalarında yan karelerin namlu ucu (kırpılmış kareye oranla [fx, fy], dört kare)

diff --git a/hayalet-avcilari/araclar/gorsel_kes.py b/hayalet-avcilari/araclar/gorsel_kes.py
@@ -603,6 +603,31 @@ EK_PAFTALAR = {
 }
 
 
+
+# Fırtına bulutları gri-kara olmalı (kullanıcı: "önceki gibi gri kara renkli olsun, böyle çok renkli değil"): K03'ün mor bulutları
+# parlaklığına göre arduvaz griye boyanır; bulut-4'ün çizili damlaları silinir (yağmur kodla, canlı çizilir).
+GRI_BULUT = {'bulut-2', 'bulut-3', 'bulut-4'}
+
+
+def bulutu_grile(hucre, damla_sil):
+    px = hucre.load()
+    w, h = hucre.size
+    for y in range(h):
+        for x in range(w):
+            r, g, b, a = px[x, y]
+            if not a:
+                continue
+            if damla_sil and g > r + 60 and b > r + 80:  # mavi-camgöbeği damla (mor bulutta g < r)
+                px[x, y] = (0, 0, 0, 0)
+                continue
+            l = (0.3 * r + 0.59 * g + 0.11 * b) / 255
+            # kara arduvaz (#2c313d) → orta gri (#868c9a), hafif mavi ton
+            px[x, y] = (round(44 + l * 90), round(49 + l * 90), round(61 + l * 90), a)
+    if damla_sil:
+        hucre = en_buyuk_parca(hucre)  # damla kalıntıları (kenar pikselleri) gövdeden ayrık: yalnız bulut kalır
+    kutu = hucre.getbbox()
+    return hucre.crop(kutu) if kutu else hucre
+
 def ek_hucreler(liste):
     for pafta, hucreler in EK_PAFTALAR.items():
         yol = os.path.join(HAMEK, f'{pafta}.png')
@@ -618,6 +643,8 @@ def ek_hucreler(liste):
             if not kutu:
                 sys.exit(f'{pafta} hücre {i + 1} ({anahtar}) boş')
             hucre = hucre.crop(kutu)
+            if anahtar in GRI_BULUT:
+                hucre = bulutu_grile(hucre, anahtar == 'bulut-4')
             oran = en / max(hucre.size)
             if oran < 1:
                 hucre = hucre.resize((max(1, round(hucre.width * oran)), max(1, round(hucre.height * oran))), Image.LANCZOS)
